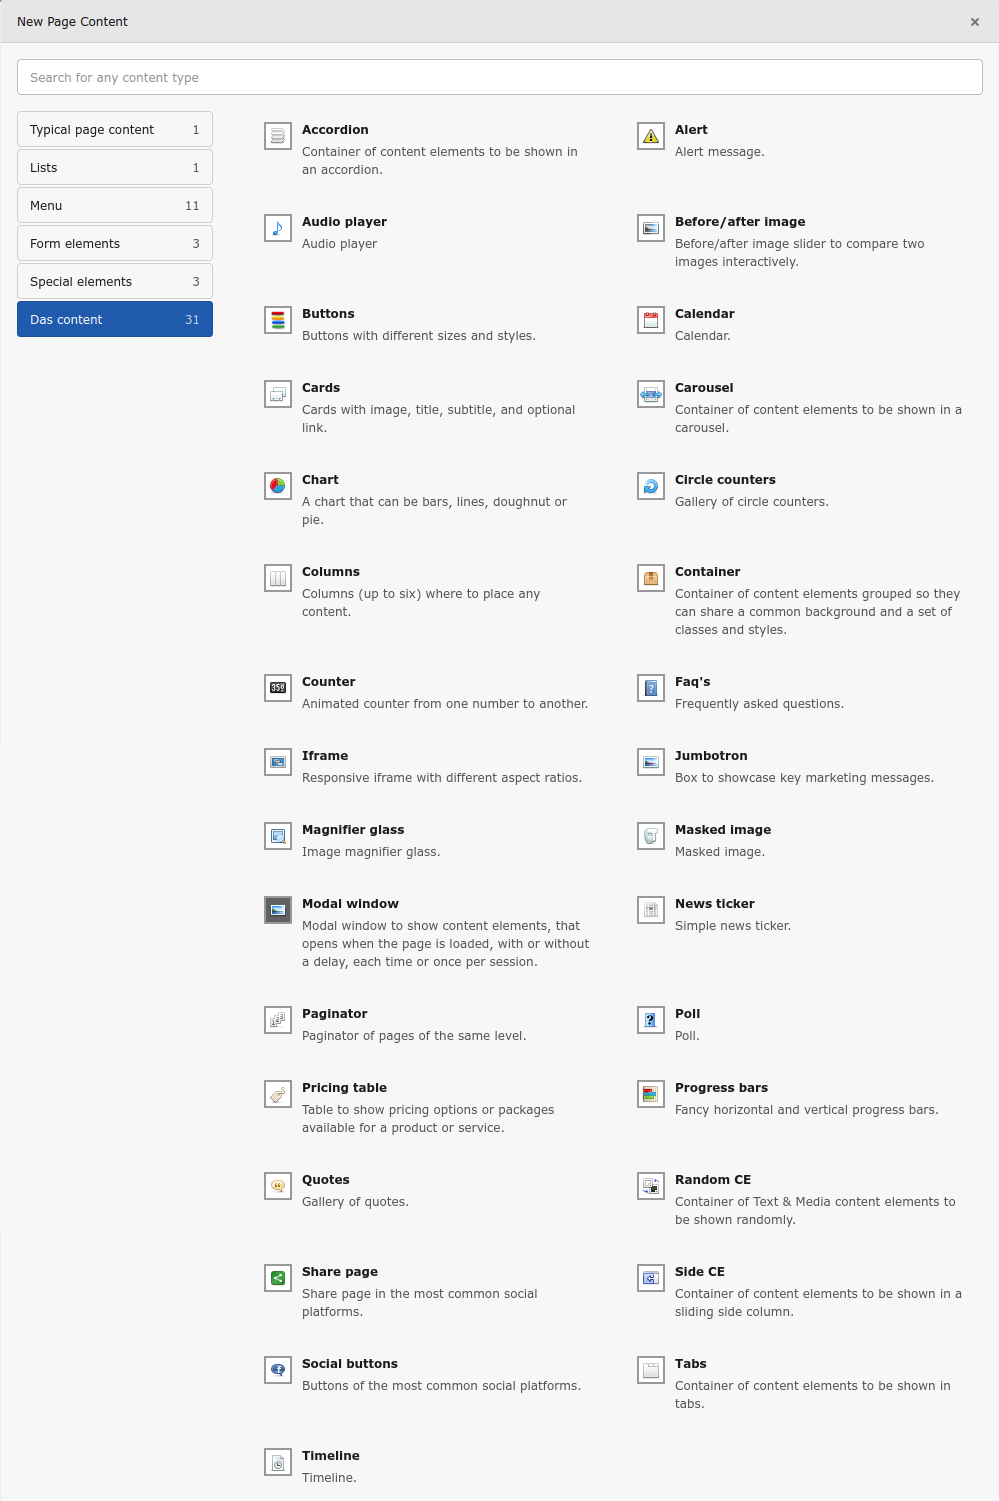
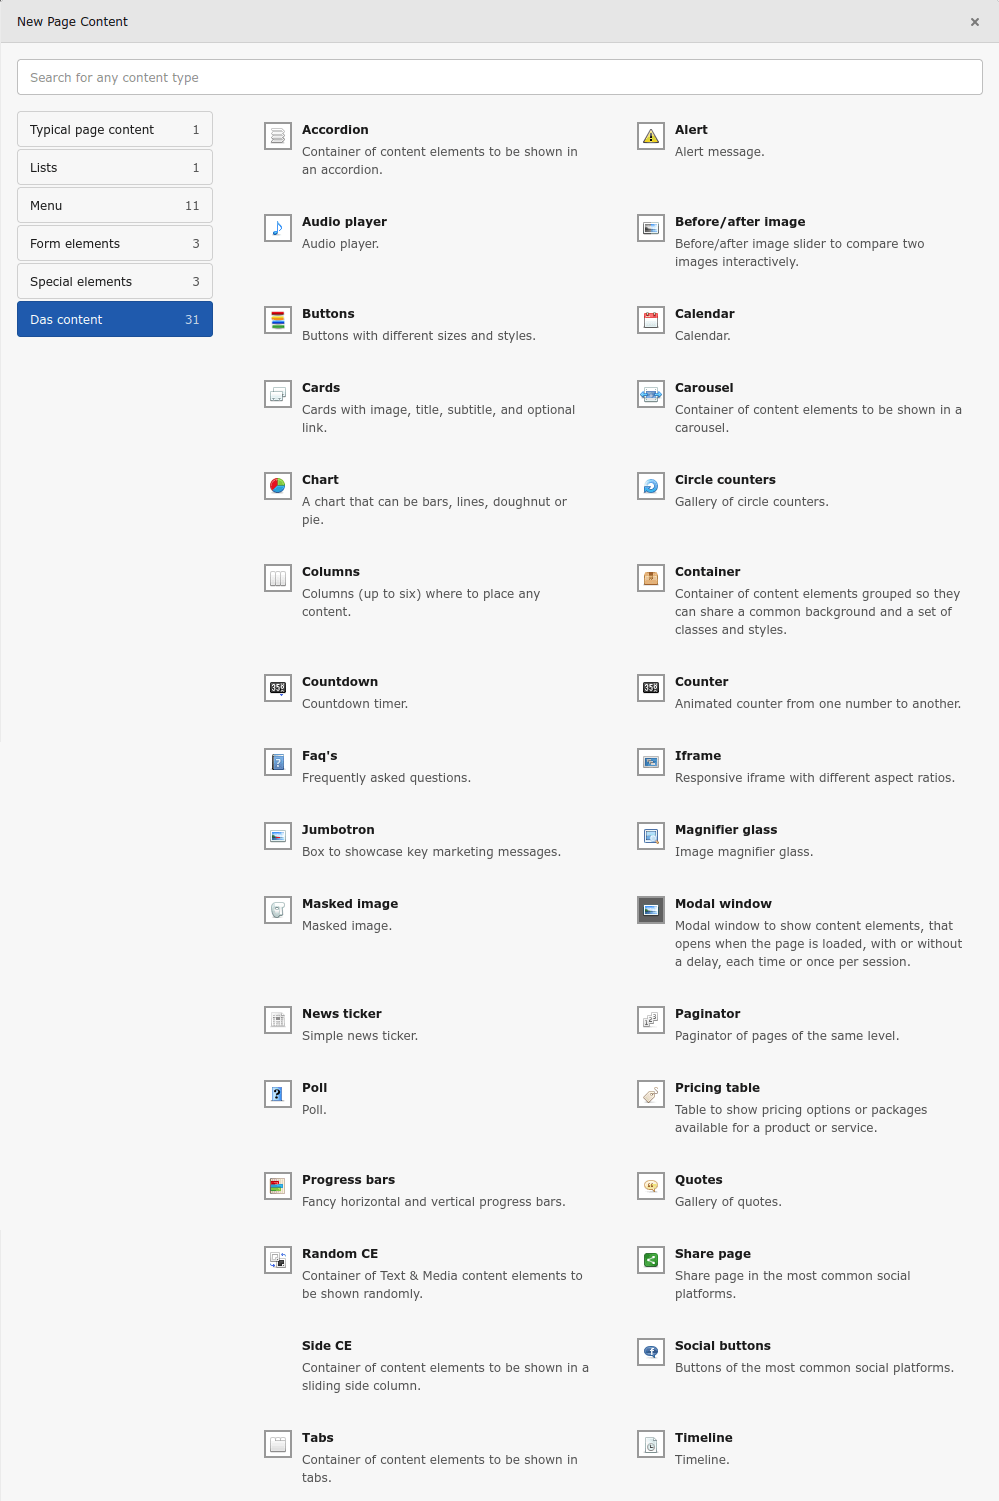
[TASK] Update documentation and some BE improvements

diff --git a/Configuration/TCA/Overrides/pages.php b/Configuration/TCA/Overrides/pages.php
@@ -208,12 +208,15 @@ $GLOBALS['TCA']['pages']['palettes']['page'] = [
     'displayCond' => 'FIELD:is_siteroot:REQ:true',
     'showitem' => '
         tx_das_logo,
+        --linebreak--,
         tx_das_bstheme,
         tx_das_navigationlevels,
         tx_das_searchpageuid,
+        --linebreak--,
         tx_das_structureddata,
         tx_das_showlanguageselector,
         tx_das_showpagetitle,
+        --linebreak--,
         tx_das_breadcrumb,
         tx_das_breadcrumbseparator
     '

diff --git a/Configuration/TCA/Overrides/tt_content.php b/Configuration/TCA/Overrides/tt_content.php
@@ -680,7 +680,9 @@ $GLOBALS['TCA']['tt_content']['palettes']['bg'] = [
     'showitem' => '
         tx_das_bgpredefinedcolor,
         tx_das_bgcolor,
+        --linebreak--,
         tx_das_bgimage,
+        --linebreak--,
         tx_das_bgoverlay,
         tx_das_bgoverlayvignete,
         tx_das_fixedbg
@@ -693,6 +695,7 @@ $GLOBALS['TCA']['tt_content']['palettes']['fontawesome'] = [
         tx_das_faicon;' . $languageFilePrefix . 'pages.fontawesome.icon,
         tx_das_fasize;' . $languageFilePrefix . 'pages.fontawesome.size,
         tx_das_fapredefinedcolor;' . $languageFilePrefix . 'pages.fontawesome.predefined_color,
+        --linebreak--,
         tx_das_facolor;' . $languageFilePrefix . 'pages.fontawesome.color,
         tx_das_faposition;' . $languageFilePrefix . 'pages.fontawesome.position
     '

diff --git a/Documentation/EditorsManual/DasContentElements.rst b/Documentation/EditorsManual/DasContentElements.rst
@@ -3,7 +3,7 @@
 Das content elements
 ====================
 
-**Das** comes with a set of ready to use content elements, which cover a wide range of options: Accordion, Alert, Audio player, Before/after image, Buttons, Calendar, Cards, Carousel, Chart, Circle counters, Columns, Container, Counter, Faq's, Iframe, Jumbotron, Magnifier glass, Masked image, Modal window, News ticker, Paginator, Poll, Pricing table, Progress bars, Quotes, Random CE, Share page, Side CE, Social buttons, Tabs, and Timeline.
+**Das** comes with a set of ready to use content elements, which cover a wide range of options: Accordion, Alert, Audio player, Before/after image, Buttons, Calendar, Cards, Carousel, Chart, Circle counters, Columns, Container, Countdown, Counter, Faq's, Iframe, Jumbotron, Magnifier glass, Masked image, Modal window, News ticker, Paginator, Poll, Pricing table, Progress bars, Quotes, Random CE, Share page, Side CE, Social buttons, Tabs, and Timeline.
 
 .. figure:: ../Images/dasce-1.png
    :width: 999px